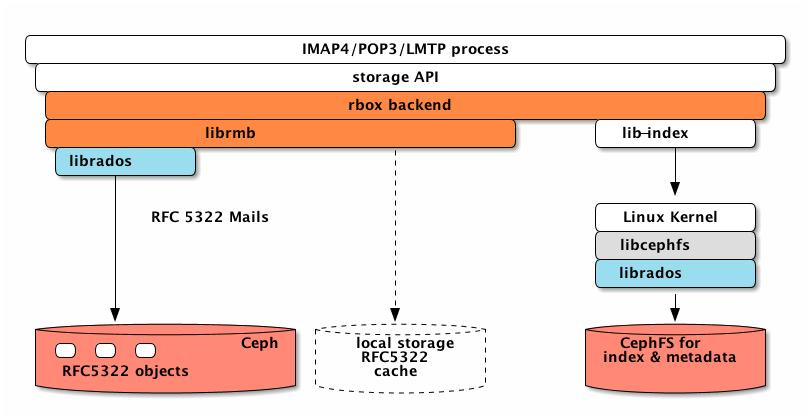
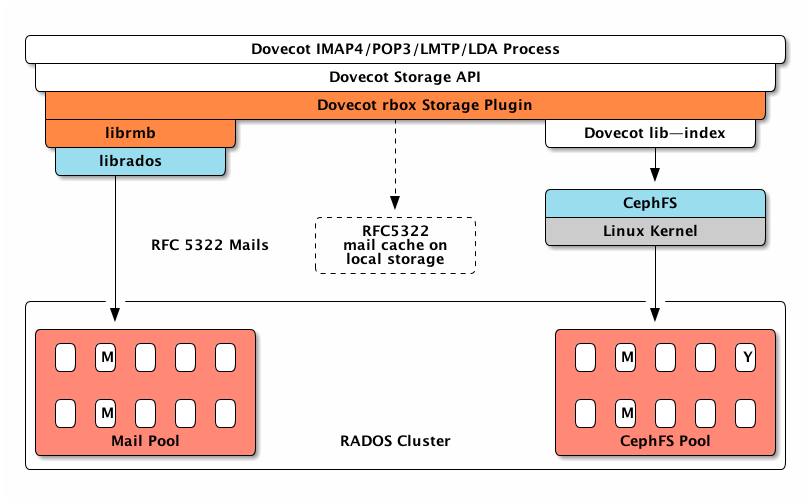
Added diagram sources. Changed overview diagram.

diff --git a/README.md b/README.md
@@ -10,13 +10,15 @@ As a bonus, a dictionary plugin is included, which allows the storage of Dovecot
 
 The mails are saved directly as RADOS objects. All other data are stored as before in the file system. This applies in particular to the data of the lib-index of Dovecot. We assume the file system is designed as shared storage based on CephFS.
 
-Based on the code of the Dovecot storage format [Cydir](http://wiki.dovecot.org/MailboxFormat/Cydir) we developed a hybrid storage as Dovecot plugin. The hybrid storage directly uses the librados for storing mails in Ceph objects. The mail objects are immutable and get stored in one RADOS object.  Immutable metadata is stored in omap KV and xattr. The index data is completely managed by the lib-index and ends up in CephFS volumes.
+Based on the code of the Dovecot storage format [Cydir](http://wiki.dovecot.org/MailboxFormat/Cydir) we developed a hybrid storage as Dovecot plugin. The hybrid storage directly uses the librados for storing mails in Ceph objects. The mail objects are immutable and get stored in one RADOS object.  Immutable metadata is stored in omap KV and xattr. The index data is completely managed by Dvovecot's lib-index and ends up in CephFS volumes.
 
-Because of the way MUAs access the mails, it may be necessary to provide a local cache of mails from Dovecot. The cache can be located in the main memory or on local SSD storage. However, this optimization is optional and will be implemented only if necessary.
+![Overview](doc/images/librmb-dovecot.png)
+
+Because of the way MUAs access mails, it may be necessary to provide a local cache for mails objects. The cache can be located in the main memory or on local (SSD) storage. However, this optimization is optional and will be implemented only if necessary.
 
 ![Overview](doc/images/dovecot-ceph-hybrid-libindex-rmb-cache.png)
 
-The mail objects and CephFS should be placed in different pools. The mail objects are immutable and require a lot of storage. They would benefit a lot from [erasure coded pools](http://docs.ceph.com/docs/master/architecture/#erasure-coding). The index data required a lot of writing and are placed on an SSD based CephFS pool.
+The mail objects and CephFS should be placed in different RADOS pools. The mail objects are immutable and require a lot of storage. They would benefit a lot from [erasure coded pools](http://docs.ceph.com/docs/master/architecture/#erasure-coding). The index data required a lot of writing and are placed on an SSD based CephFS pool.
 
 ### Mail Object Format
 
@@ -163,7 +165,6 @@ See [Dovecot Dictionaries](http://wiki.dovecot.org/Dictionary) for details.
     mail_plugins = $mail_plugins dict_rados
 
 The configuration parameters are:
-
 * **oid**: The RADOS object id to use. 
 * **pool**: The RADOS pool to use for the dictionary objects. The pool name ist optional and defaults to _mail_dictionary_. If the pool is missing, it will be created.
 
